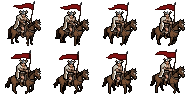
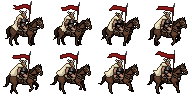
L'est de côté et le sud-est vers le sud pour le nécromancien, l'est de côté pour le chef barbare
Le nécromancien : nouvel est vu de côté et sud-est tourné vers le sud (le sud-est du
rôdeur comme style), le chef barbare : nouvel est de profil à la cape claire ; son
sud-est reste tel quel (choix de l'utilisateur). Marches posées au sol commun avec le
rebond, pieds mesurés. Méthode et historique.

diff --git a/HISTORIQUE.md b/HISTORIQUE.md
@@ -1153,6 +1153,19 @@ Après l'IA (choix de l'utilisateur), qui devra ensuite apprendre la magie et le
   que les autres vues ; posé 2 pixels plus haut, ramené au même sol). Une v3 tournée depuis la vue de face : dessin plus
   grand, d'un autre style, écartée. Marches : sud 1, sud-est 1, est 2, nord-est 1, nord 1. `hero-foret.png`,
   `hero-foret-{s,se,e,ne,n}.png` et `-move.png`. Pieds mesurés, pas encore revus. Vu en jeu avec `--hero-walk`.
+- ✅ L'est de côté et le sud-est vers le sud pour le nécromancien et le chef barbare (2026-11-15, branche
+  `heros-carte-profils`, PixelLab, environ 1,65 $ : dix-huit lots `pro` de 25, une retouche, six marches). **Nécromancien** :
+  l'est vu de côté (style l'est du chevalier, choisi le 4) ; le sud-est n'a marché qu'avec **le sud-est du rôdeur comme
+  style** (choisi le 8 du lot 6) : sans style, les essais restaient de trois quarts et souvent trop petits (28 à 41 pixels
+  au lieu de 45 : l'utilisateur l'a vu) ; avec la vue de face en modèle et « almost a front view », ils regardaient droit
+  vers le sud (et revenaient sur un fond blanc). **Chef barbare** : l'est avec le style et le modèle des profils du
+  rôdeur et du chevalier (le cheval enfin de profil ; choisi le 1), sa cape trop sombre éclaircie par une retouche
+  (« make the fur cloak pale cream white ») ; préciser « a pale cream white fur cloak » dans la description pour les
+  essais suivants. Son sud-est : six lots, jamais juste (trois quarts avec le style du rôdeur, plein sud avec la vue de
+  face en modèle, entre les deux rien de mieux) ; **l'utilisateur garde l'ancien** pour l'instant. Les essais trop petits
+  sont retirés de la page (hauteur mesurée), les fonds blancs nettoyés (bords, puis taches enfermées de blanc pur).
+  Marches : nécromancien est 2 et sud-est 2, chef barbare est 2, posées au sol commun (rangée 45) avec le rebond. Pieds
+  mesurés, pas encore revus. Vu en jeu avec `--hero-walk`.
 - ✅ Ville des Nains sur la carte (2026-11-12, branche `creatures-nains`, PixelLab, 0,64 $) : trois idées en lots de quatre
   (a : hall de la montagne, b : forteresse au pied d'une colline aux toits de cuivre, c : cité des forges, engrenages et
   tuyaux de bronze), le Château comme style et modèle (a : le Donjon comme second modèle, pour la forteresse creusée dans

diff --git a/PLAN.md b/PLAN.md
@@ -906,8 +906,10 @@ créature rare), le nombre par carte et la difficulté selon la zone ; les créa
   nécromancien encapuchonné de violet sur un cheval mort-vivant pâle). ✅ **Le chef des Barbares** (2026-11-15, branche
   `heros-carte-barbares` : casque à cornes, cape de fourrure, sur un cheval brun). ✅ **Le rôdeur de la Forêt**
   (2026-11-15, branche `heros-carte-foret` : cape verte, arc long, cheval alezan) ; l'utilisateur veut **l'est et l'ouest
-  vus de côté** et **le sud-est et le sud-ouest plus tournés vers le sud** (à refaire aussi pour le nécromancien et le
-  chef barbare, et pour les factions suivantes). Reste : les 4 autres factions, une image de combat par héros.
+  vus de côté** et **le sud-est et le sud-ouest plus tournés vers le sud** (pour les factions suivantes aussi). ✅ Refaits
+  ainsi (2026-11-15, branche `heros-carte-profils`) : l'est et le sud-est du nécromancien, l'est du chef barbare (cape
+  claire) ; **le sud-est du chef barbare reste tel quel** pour l'instant (aucun essai juste : trop de face ou pas assez,
+  choix de l'utilisateur). Reste : les 4 autres factions, une image de combat par héros.
   ✅ **Les diagonales partout sur la carte** (2026-11-14, branche `diagonales`, très important pour l'utilisateur) : les
   bords des terrains suivent les centres des cases (un escalier devient une ligne à 45°, un coin s'arrondit), les routes
   vont en diagonale, les murs entre zones serpentent. (Icônes des ressources : faites, 2026-11-07.)

diff --git a/tools/art/METHODE.md b/tools/art/METHODE.md
@@ -423,6 +423,11 @@ les clés et le dossier `art-candidats/` sont décrits dans `CLAUDE.md` ; l'hist
   (« - », sinon les essais gardent l'angle du style), « front three-quarter view from above: the horse comes toward the
   viewer, turned only a little to the right… », la vue de face, le profil et l'image choisie comme modèles ; un essai
   tourné vers la gauche sert aussi, retourné. Vérifier ensuite que chaque vue est posée au même sol (rangée 45).
+  Si le sud-est reste de trois quarts (le nécromancien), prendre **le sud-est du rôdeur (`hero-foret-se.png`) comme
+  style** : c'est le style qui fixe l'angle. La vue de face en modèle tire vers le plein sud (et vers un fond blanc).
+  Mesurer la hauteur des essais (45 comme les autres vues ; l'utilisateur voit tout de suite un dessin plus petit) et
+  retirer les plus petits de la page. Écrire la couleur de la cape dans la description (sinon elle sort sombre).
+  Le sud-est du chef barbare n'a jamais été juste (six lots) : il garde l'ancien.
 
 ## Interface
 - **Icônes des ressources** (`art/icons/{gold,wood,ore,gems,mercury,crystal,sulfur}.png`, 16 × 16, affichées ×2 dans
